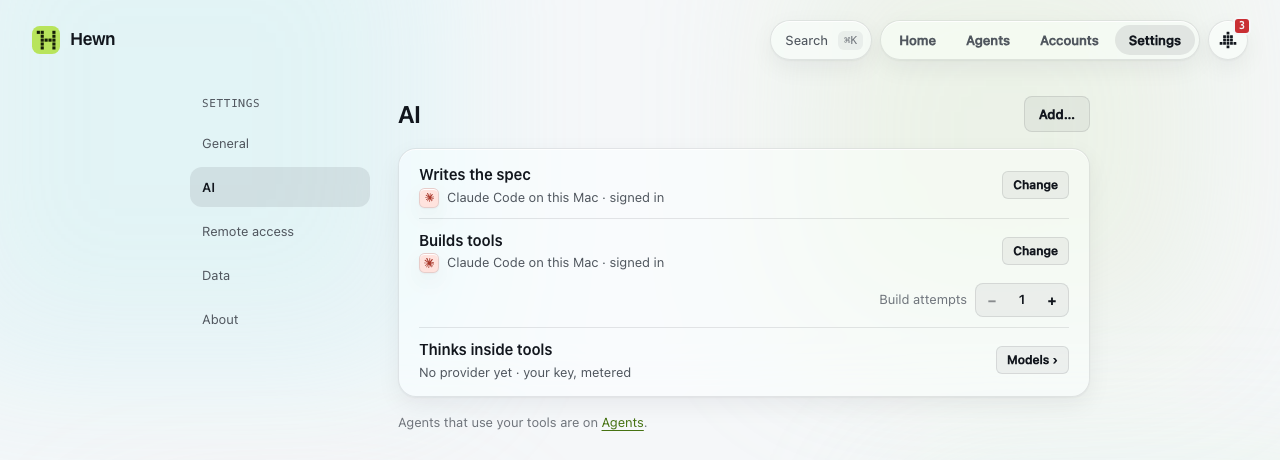
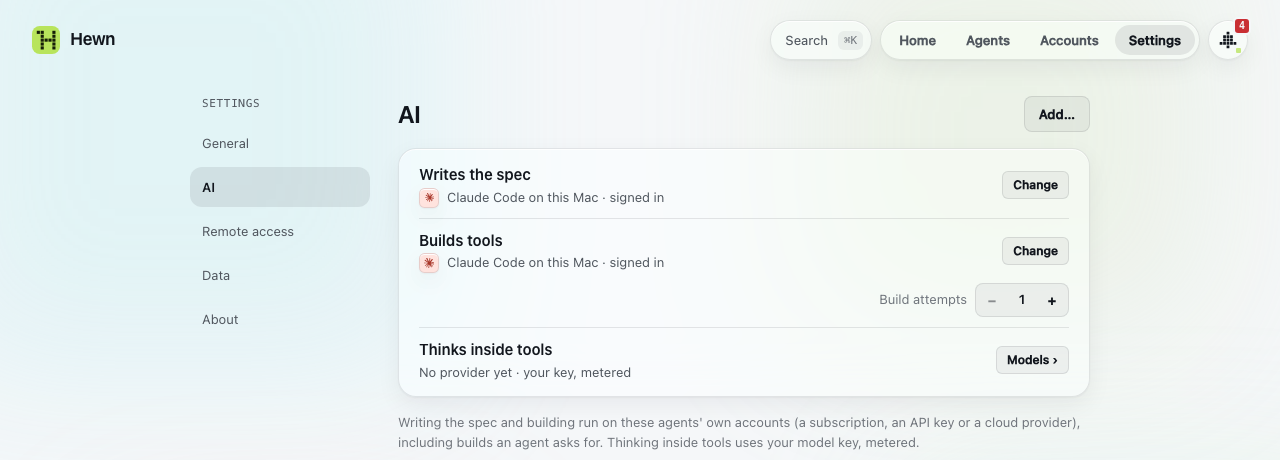
Say what uses your account; --listen 0.0.0.0 binds; Claude Code by name
- The proposal card says which agent builds it, on its own account; a build
  an agent asked for says so on its page and in Activity; Settings › AI says
  what each job runs on and who pays.
- publicListen 0.0.0.0 is the public listener's one socket (it covers
  loopback), not a second socket on the same port that fails to bind.
- The builder "claude" is labelled Claude Code (it was "Claude").
- The amber "Change existing ones" scope tag stays, on purpose (comment).
- spec-proposal.png and settings-ai.png retaken.

Changed region(s): [[0.3125, 0.913, 0.8438, 0.9739]]

diff --git a/packages/host-workerd/web/app.js b/packages/host-workerd/web/app.js
@@ -2875,6 +2875,8 @@ function proposalCard(kind, list, ctx) {
     { class: "card spec-card proposal" },
     h("div", { class: "eyebrow" }, `Proposal · ${summary}`),
     h("ul", { class: "list" }, rows.map(row)),
+    // Say what spends the owner's account before it happens (a schedule-only proposal builds nothing).
+    kind !== "schedules" && h("div", { class: "small faint" }, `${settings?.builder ? builderLabel(settings.builder) : "Your builder"} builds it, on its own account: your subscription, API key or cloud provider.`),
     h("div", { class: "row end tight" }, h("button", { onclick: keepTalking }, "Keep talking"), build),
   );
   return [card, summary];
@@ -2936,6 +2938,12 @@ async function buildPage(id) {
  * while it works, collapsed under "Show log" once it succeeds, open by default when it fails (H6).
  * `compact`: in the change drawer (P3); `onPromoted(b)`: what to show there when it's live (P4).
  */
+/** "Codex asked · " when an agent asked for the build (it runs on the owner's builder account all the same). */
+const askedBy = (b) => {
+  const who = actorLabel(b.requestedBy);
+  return who && who !== "You" ? `${who} asked · ` : "";
+};
+
 function buildPanel(id, { compact = false, onPromoted } = {}) {
   const card = h("div", { class: compact ? "build-panel stack-md" : "card build-card" }, skeleton("50%", "80%"));
   const cancelBtn = h("button", {}, "Cancel build");
@@ -3000,7 +3008,9 @@ function buildPanel(id, { compact = false, onPromoted } = {}) {
         head(
           appIcon(cap(), { size: compact ? 36 : 56, progress: step?.step === "tests" && step.tests?.total ? step.tests.passed / step.tests.total : 0, waiting: !(step?.step === "tests") }),
           compact && b.kind !== "create" ? `Building v${(base ?? 0) + 1}` : cap().name,
-          waitingAgent ? `Waiting for ${actorLabel(b.requestedBy, all)} to build it · you can leave` : compact && base ? `With ${builderLabel(b.builder)} · v${base} keeps working` : `Building with ${builderLabel(b.builder)} · you can leave`,
+          waitingAgent
+            ? `Waiting for ${actorLabel(b.requestedBy, all)} to build it · you can leave`
+            : `${askedBy(b)}${compact && base ? `With ${builderLabel(b.builder)}, on your account · v${base} keeps working` : `Building with ${builderLabel(b.builder)}, on your account · you can leave`}`,
           clockEl,
         ),
         h("ol", { class: "steps" }, STEPS.map(([k, label], i) => stepRow(label, i < at ? "done" : i === at ? "live" : "todo", meta(k, i)))),
@@ -3467,7 +3477,7 @@ async function buildsView(head, only, all0) {
     const sub = (b) => {
       if (b.status === "waiting") return h("span", { class: "sub row tight" }, "Waiting for ", b.dependsOn ? h("a", { href: `#/b/${enc(b.dependsOn)}` }, "another build") : "another build");
       if (b.status === "review") return h("span", { class: "sub" }, `${actorLabel(b.requestedBy, all)} changed it: it waits for you`);
-      if (LIVE_BUILD.has(b.status)) return h("span", { class: "sub" }, milestones(b));
+      if (LIVE_BUILD.has(b.status)) return h("span", { class: "sub row tight" }, askedBy(b) && h("span", { class: "faint" }, `${askedBy(b)}on your ${builderLabel(b.builder)}`), milestones(b));
       const first = String(b.request?.request || b.request?.purpose || "").split("\n")[0];
       return h("span", { class: "sub clip-1" }, (b.status === "failed" && b.failure?.title) || (first.length > 140 ? `${first.slice(0, 140)}…` : first) || (b.kind === "widgets" ? "Suggested by the builder" : " "));
     };
@@ -3743,6 +3753,8 @@ async function agentRequestSheet(p, { inline } = {}) {
     const sw = h("input", { type: "checkbox", class: "switch", checked: picked.has(scope), "aria-label": text });
     sw.addEventListener("change", () => (sw.checked ? picked.add(scope) : picked.delete(scope)));
     const added = p.current && !p.current.scopes.includes(scope);
+    // "Change existing ones" stays amber on purpose: an agent that can change tools can change what
+    // the code behind your data does (owner, 2026-10-19).
     return { pill: kindTag(scope === "discover" || scope === "invoke" ? "use" : "make", scope === "modify" ? "warn" : ""), main: h("span", {}, text), sub: added ? "New: it doesn't have this now" : null, control: sw };
   });
   const extra = h(
@@ -4191,6 +4203,7 @@ async function aiSection() {
         h("a", { class: "btn sm", href: "#/settings/ai/models" }, "Models ›"),
       ),
     ),
+    h("div", { class: "small faint" }, "Writing the spec and building run on these agents' own accounts (a subscription, an API key or a cloud provider), including builds an agent asks for. Thinking inside tools uses your model key, metered."),
     h("div", { class: "small faint" }, "Agents that use your tools are on ", h("a", { href: "#/agents" }, "Agents"), "."),
   );
 }

diff --git a/packages/cli/src/supervisor/index.ts b/packages/cli/src/supervisor/index.ts
@@ -88,7 +88,8 @@ const workerd = () => {
   }
 };
 
-function config(o: { dir: string; keys: typeof STORAGE_KEYS; port: number; publicPort: number; publicListen?: string; supervisorPort: number; data: string; assets: { web: string; ui: string } }) {
+/** workerd's config (capnp) for this home. Exported for tests. */
+export function config(o: { dir: string; keys: typeof STORAGE_KEYS; port: number; publicPort: number; publicListen?: string; supervisorPort: number; data: string; assets: { web: string; ui: string } }) {
   return `using Workerd = import "/workerd/workerd.capnp";
 const config :Workerd.Config = (
   services = [
@@ -102,8 +103,10 @@ const config :Workerd.Config = (
   ],
   sockets = [
     (name = "http", address = "127.0.0.1:${o.port}", http = (), service = "main"),
-    (name = "public", address = "127.0.0.1:${o.publicPort}", http = (), service = (name = "main", entrypoint = "Public")),${
-      o.publicListen ? `\n    (name = "public-network", address = "${o.publicListen}:${o.publicPort}", http = (), service = (name = "main", entrypoint = "Public")),` : ""
+    (name = "public", address = "${o.publicListen === "0.0.0.0" ? "0.0.0.0" : "127.0.0.1"}:${o.publicPort}", http = (), service = (name = "main", entrypoint = "Public")),${
+      // Another address too (a LAN address for a proxy on another machine). 0.0.0.0 already
+      // covers loopback, and a second socket on the same port would fail to bind.
+      o.publicListen && o.publicListen !== "0.0.0.0" ? `\n    (name = "public-network", address = "${o.publicListen}:${o.publicPort}", http = (), service = (name = "main", entrypoint = "Public")),` : ""
     }
   ],
 );

diff --git a/test/remote.test.ts b/test/remote.test.ts
@@ -1,5 +1,7 @@
 // SPDX-License-Identifier: AGPL-3.0-or-later
 import assert from "node:assert/strict";
+import { config as supervisorConfig } from "@hewntools/cli/supervisor/index.ts";
+import { STORAGE_KEYS } from "@hewntools/cli/supervisor/format.ts";
 import { request, type Server } from "node:http";
 import type { AddressInfo } from "node:net";
 import { mkdtempSync } from "node:fs";
@@ -153,6 +155,16 @@ describe("hewn url --listen: the public listener on the network", () => {
     assert.equal(writeConfig(home, { publicListen: "127.0.0.1" }).publicListen, undefined);
     writeConfig(home, { publicListen: "10.0.0.2" });
     assert.equal(writeConfig(home, { publicListen: null }).publicListen, undefined);
+  });
+
+  test("0.0.0.0 (every interface, as in a container) is one socket, not a second one on the same port", () => {
+    const base = { dir: "/d", keys: STORAGE_KEYS, port: 7717, publicPort: 7718, supervisorPort: 1, data: "/d", assets: { web: "/w", ui: "/u" } };
+    const sockets = (publicListen?: string) => [...supervisorConfig({ ...base, publicListen }).matchAll(/address = "([^"]+)", http = \(\), service = \(name = "main", entrypoint = "Public"\)/g)].map((m) => m[1]);
+    assert.deepEqual(sockets(), ["127.0.0.1:7718"]);
+    assert.deepEqual(sockets("192.168.1.50"), ["127.0.0.1:7718", "192.168.1.50:7718"]);
+    assert.deepEqual(sockets("0.0.0.0"), ["0.0.0.0:7718"]);
+    const home = openHome(mkdtempSync(join(tmpdir(), "hewn-listen-")));
+    assert.equal(writeConfig(home, { publicListen: "0.0.0.0" }).publicListen, "0.0.0.0");
   });
 });
 

diff --git a/packages/cli/src/config.ts b/packages/cli/src/config.ts
@@ -64,7 +64,7 @@ export function writeConfig(home: Home, change: Partial<Omit<PlatformConfig, "ba
   const bad: string[] = [];
   if (publicListen !== undefined) {
     if (!publicListen) delete next.publicListen;
-    else if (typeof publicListen !== "string" || !IPV4.test(publicListen)) bad.push("publicListen must be an IPv4 address of this machine (e.g. 192.168.1.50)");
+    else if (typeof publicListen !== "string" || !IPV4.test(publicListen)) bad.push("publicListen must be an IPv4 address of this machine (e.g. 192.168.1.50), or 0.0.0.0 for every interface");
     else if (publicListen.startsWith("127.")) delete next.publicListen;
     else next.publicListen = publicListen;
   }

diff --git a/packages/host-workerd/web/kit.js b/packages/host-workerd/web/kit.js
@@ -125,7 +125,9 @@ export function actorLabel(id, caps) {
   if (id.startsWith("capability:")) return caps?.get(id.slice(11))?.name ?? id.slice(11);
   return AGENT_LABELS[id] ?? id;
 }
-export const builderLabel = (b) => (b === "agent" ? "your agent" : AGENT_LABELS[b] ?? b);
+/** A builder by name: the CLIs Hewn runs ("claude" is Claude Code, not the claude.ai agent). */
+const BUILDERS = { claude: "Claude Code", codex: "Codex" };
+export const builderLabel = (b) => (b === "agent" ? "your agent" : BUILDERS[b] ?? AGENT_LABELS[b] ?? b);
 
 // ---------- capabilities and their icons ----------
 

diff --git a/CHANGELOG.md b/CHANGELOG.md
@@ -9,6 +9,8 @@ Hewn follows semver for the CLI and your data: `hewn upgrade` stays within a 0.x
 - **A failed build says why everywhere.** The Inbox and Activity show the build's own reason ("1 of 3 tests didn't pass", or what stopped the builder), not just "The builder stopped".
 - **Accounts shows a connection's health detail** ("expired · The session ended on 12 October").
 - **Web client polish:** tool names on Home and widget titles wrap between words (with an ellipsis when they don't fit) and tiles line up; Home starts just under the top bar; bar charts scale to their data; a single call in Activity opens like a group does; the command palette lists name matches first; the passkey page fits a phone.
+- **Hewn says what uses your account.** The proposal card says which agent builds it, on its own account (a subscription, an API key or a cloud provider); a build an agent asked for says so on its page and in Activity ("Codex asked · building with Claude Code, on your account"); Settings › AI says what each job runs on.
+- **`hewn url --listen 0.0.0.0`** puts the public listener on every interface (a container, or a proxy anywhere on the network) instead of failing to bind next to the loopback one.
 
 ## 0.4.0 (2026-10-19)
 

diff --git a/docs/remote-access.md b/docs/remote-access.md
@@ -69,6 +69,8 @@ hewn url --listen 192.168.1.50     # this machine's LAN address
 hewn service restart
 ```
 
+In a container, or to answer on every interface, use `hewn url --listen 0.0.0.0`.
+
 Then point the proxy at `192.168.1.50:7718`. Only the public listener goes on the network; the web client's local port and admin stay on `127.0.0.1`. To allow only the proxy: `sudo ufw allow from <proxy's address> to any port 7718 proto tcp` (with the firewall on). `hewn url --listen off` goes back to this machine only.
 
 ### Only through your proxy (`HEWN_PROXY_SECRET`)
